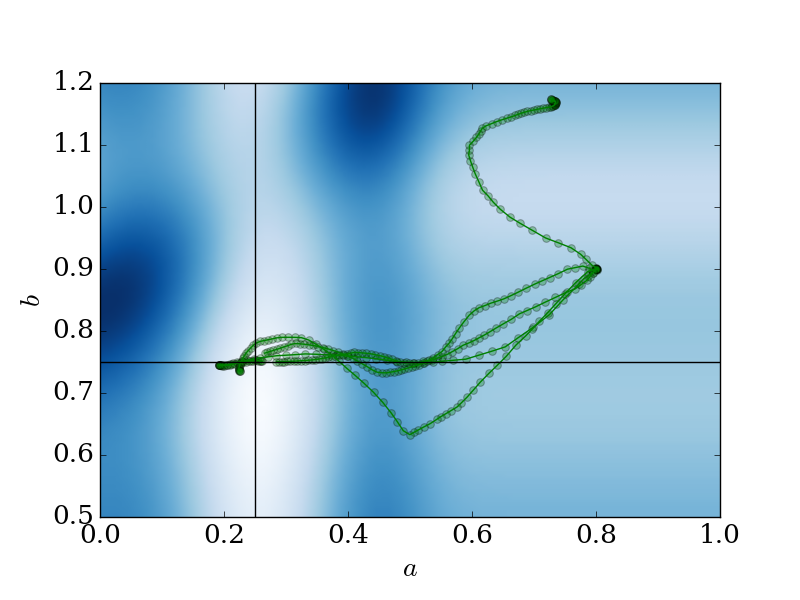
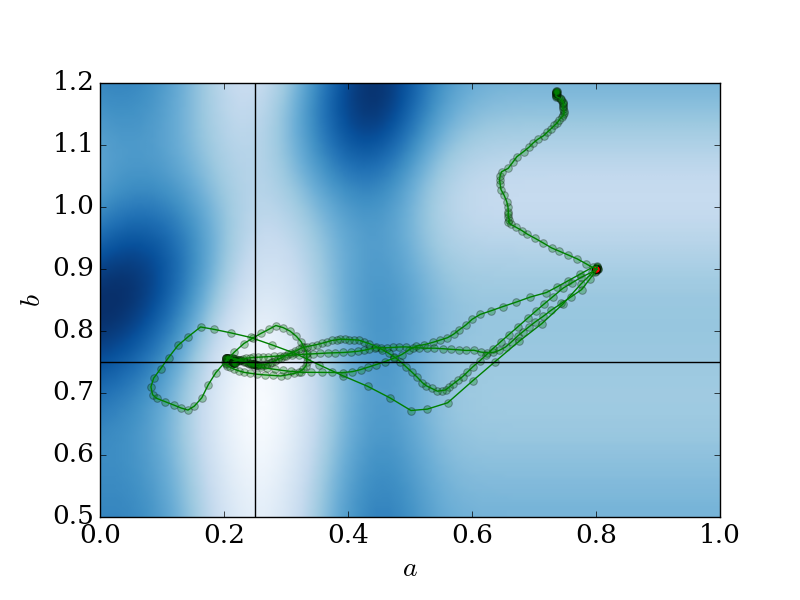
Added better description to readme

Changed region(s): [[0.1875, 0.15, 0.75, 0.75]]

diff --git a/optimize_visual.py b/optimize_visual.py
@@ -117,15 +117,12 @@ class Optimize(object):
         for i in range(k):
             print(i)
             self.input_params(0.8, 0.9)
-            self.opt(n, method = 'adam')
+            self.opt(n, method = 'sgd')
             output_a[i, :] = self.a_rec
             output_b[i, :] = self.b_rec
             self.clear_rec()
         return output_a, output_b
-            
-        
-            
-                
+                      
 def true_func(x, a, b):
     return ((1.0/0.05**0.5)*np.exp(-(x - a)**2/0.05) +
             (1.0/0.01**0.5)*np.exp(-(x - b)**2/0.01))
@@ -133,6 +130,37 @@ def true_func(x, a, b):
 def err(xs, a_approx, b_approx):
     tot = (true_func(xs, a_approx, b_approx) - true_func(xs, 0.25, 0.75))**2
     return np.mean(tot)
+
+def plot_paths():
+
+    x_data = np.arange(0, 1, 0.01)
+    a_guess = np.arange(0.0, 1.0, 0.01)
+    b_guess = np.arange(0.5, 1.5, 0.01)
+    l_a = len(a_guess)
+    l_b = len(b_guess)
+
+    errors = np.zeros([l_a, l_b])
+    for i in range(l_a):
+        for j in range(l_b):
+            errors[l_a - i - 1, j] = err(x_data, a_guess[i], b_guess[j])
+    x_data = np.arange(0, 1, 0.01)
+    Example = Optimize(0.25, 0.75, [0.8, 0.9], x_data, stochastic = True)
+    a_s, b_s = Example .generate_paths(5, 70)
+
+    plt.figure()
+    plt.imshow(errors, cmap = 'Blues', interpolation='bilinear',  extent=[0.0,1.0,0.5,1.2])
+    for i in range(5):
+        plt.plot(a_s[i,:], b_s[i,:], color = 'green')
+        plt.scatter(a_s[i,:], b_s[i,:], s= 30, alpha=0.3, edgecolor='black', facecolor='g', linewidth=0.75)
+    plt.scatter(0.8, 0.9, s= 30, alpha=1.0, edgecolor='black', facecolor='r', linewidth=0.75)
+    plt.plot((0.25, 0.25), (0.5, 1.2), 'k-')
+    plt.plot((0.0, 1.0), (0.75, 0.75), 'k-')
+    plt.ylabel('$b$', fontsize = 20)
+    plt.xlabel('$a$', fontsize = 20)
+    plt.ylim(0.5, 1.2)
+    plt.xlim(0.0, 1.0)
+    plt.savefig('images/sgd_5.png')
+    plt.show()
 
 x_data = np.arange(0, 1, 0.01)
 y_data = true_func(x_data, 0.25, 0.75)
@@ -148,7 +176,12 @@ y_data_samp = true_func(x_data_samp, 0.25, 0.75)
 
 plt.figure()
 plt.plot(x_data, y_data)
-plt.scatter(x_data_samp, y_data_samp)
+plt.ylabel('$y$', fontsize = 20)
+plt.xlabel('$x$', fontsize = 20)
+plt.tight_layout()
+plt.savefig('images/func.png')
+
+#plt.scatter(x_data_samp, y_data_samp)
 #plt.show()
 
 errors = np.zeros([l_a, l_b])
@@ -156,7 +189,7 @@ for i in range(l_a):
     for j in range(l_b):
         errors[l_a - i - 1, j] = err(x_data_samp, a_guess[i], b_guess[j])
 
-
+test = plot_paths()
 #fig = plt.figure()
 #ax = fig.gca(projection='3d')
 #surf = ax.plot_surface(a_guess, b_guess, errors, cmap=cm.coolwarm,
@@ -165,30 +198,7 @@ for i in range(l_a):
 
         
 
-x_data = np.arange(0, 1, 0.01)
-Test = Optimize(0.25, 0.75, [0.8, 0.9], x_data, stochastic = True)
-print(Test.err(Test.x_data))
-print('err', err(x_data, 0.117, 0.990))
-Test.opt(50, method = 'adam')
-print(Test.err(Test.x_data))
-print('vars', Test.a_approx, Test.b_approx)
-Test.clear_rec()
-a_s, b_s = Test.generate_paths(5, 70)
 
-
-plt.figure()
-plt.imshow(errors, cmap = 'Blues', interpolation='bilinear',  extent=[0.0,1.0,0.5,1.2])
-for i in range(5):
-    plt.plot(a_s[i,:], b_s[i,:], color = 'green')
-    plt.scatter(a_s[i,:], b_s[i,:], s= 30, alpha=0.3, edgecolor='black', facecolor='g', linewidth=0.75)
-plt.plot((0.25, 0.25), (0.5, 1.2), 'k-')
-plt.plot((0.0, 1.0), (0.75, 0.75), 'k-')
-plt.ylabel('$b$', fontsize = 20)
-plt.xlabel('$a$', fontsize = 20)
-plt.ylim(0.5, 1.2)
-plt.xlim(0.0, 1.0)
-plt.savefig('images/adam_5.png')
-plt.show()
 
 
 

diff --git a/README.md b/README.md
@@ -26,11 +26,20 @@ control it.
 [xgboost](https://github.com/fmfn/BayesianOptimization/blob/master/examples/xgboost_example.py))
 for examples of how to use this package to tune parameters of ML estimators
 using cross validation and bayesian optimization.
+## Setup
 
+We are going to use stochastic gradient descent to learn the values of a and b in this function:
+
+![Five Adam runs](https://github.com/AsaCooperStickland/Optimizer_Visualisers/blob/master/images/maineqn.gif)
+
+which looks like: 
+
+![Five Adam runs](https://github.com/AsaCooperStickland/Optimizer_Visualisers/blob/master/images/func.png)
 
 ## Comparing Optimizers
 
-Vanilla SGD can't deal with how noisy the information it's getting is, and fails to find the global optimum completely! 
+Vanilla SGD can't deal with how noisy the information it's getting is, and fails to find the global optimum completely! The black lines below show true
+values for a and b, and the red dot is where we started from (a = 0.8, b = 0.9)
 
 ![Five Adam runs](https://github.com/AsaCooperStickland/Optimizer_Visualisers/blob/master/images/sgd_5.png)
 
